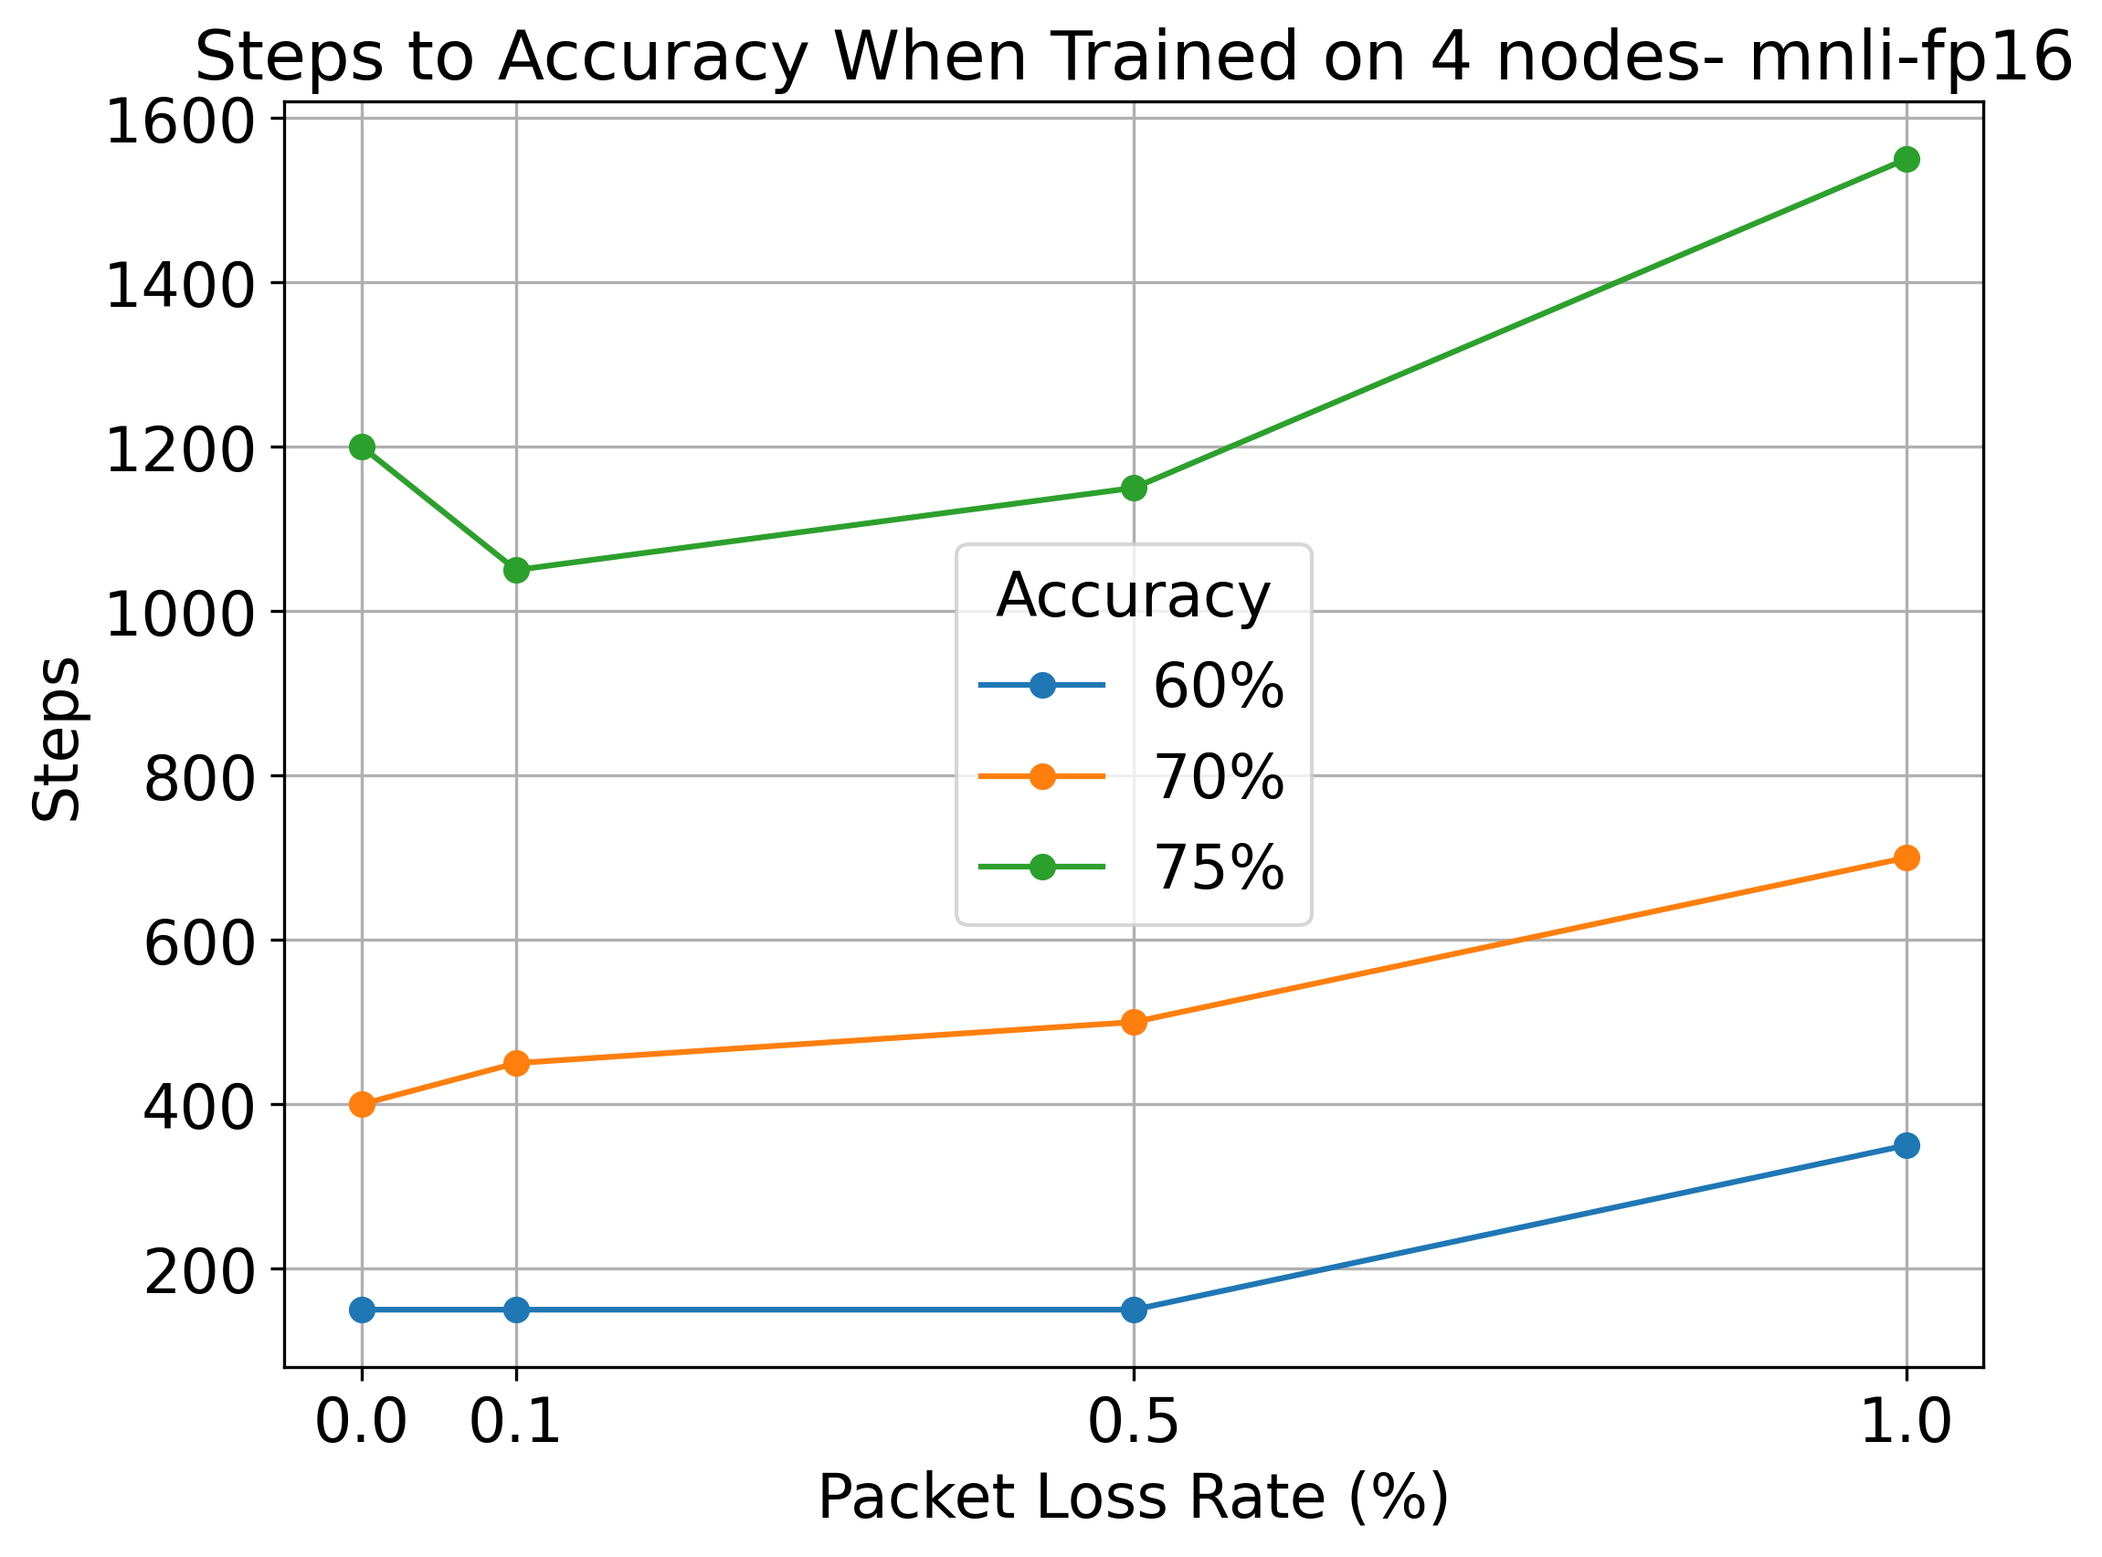
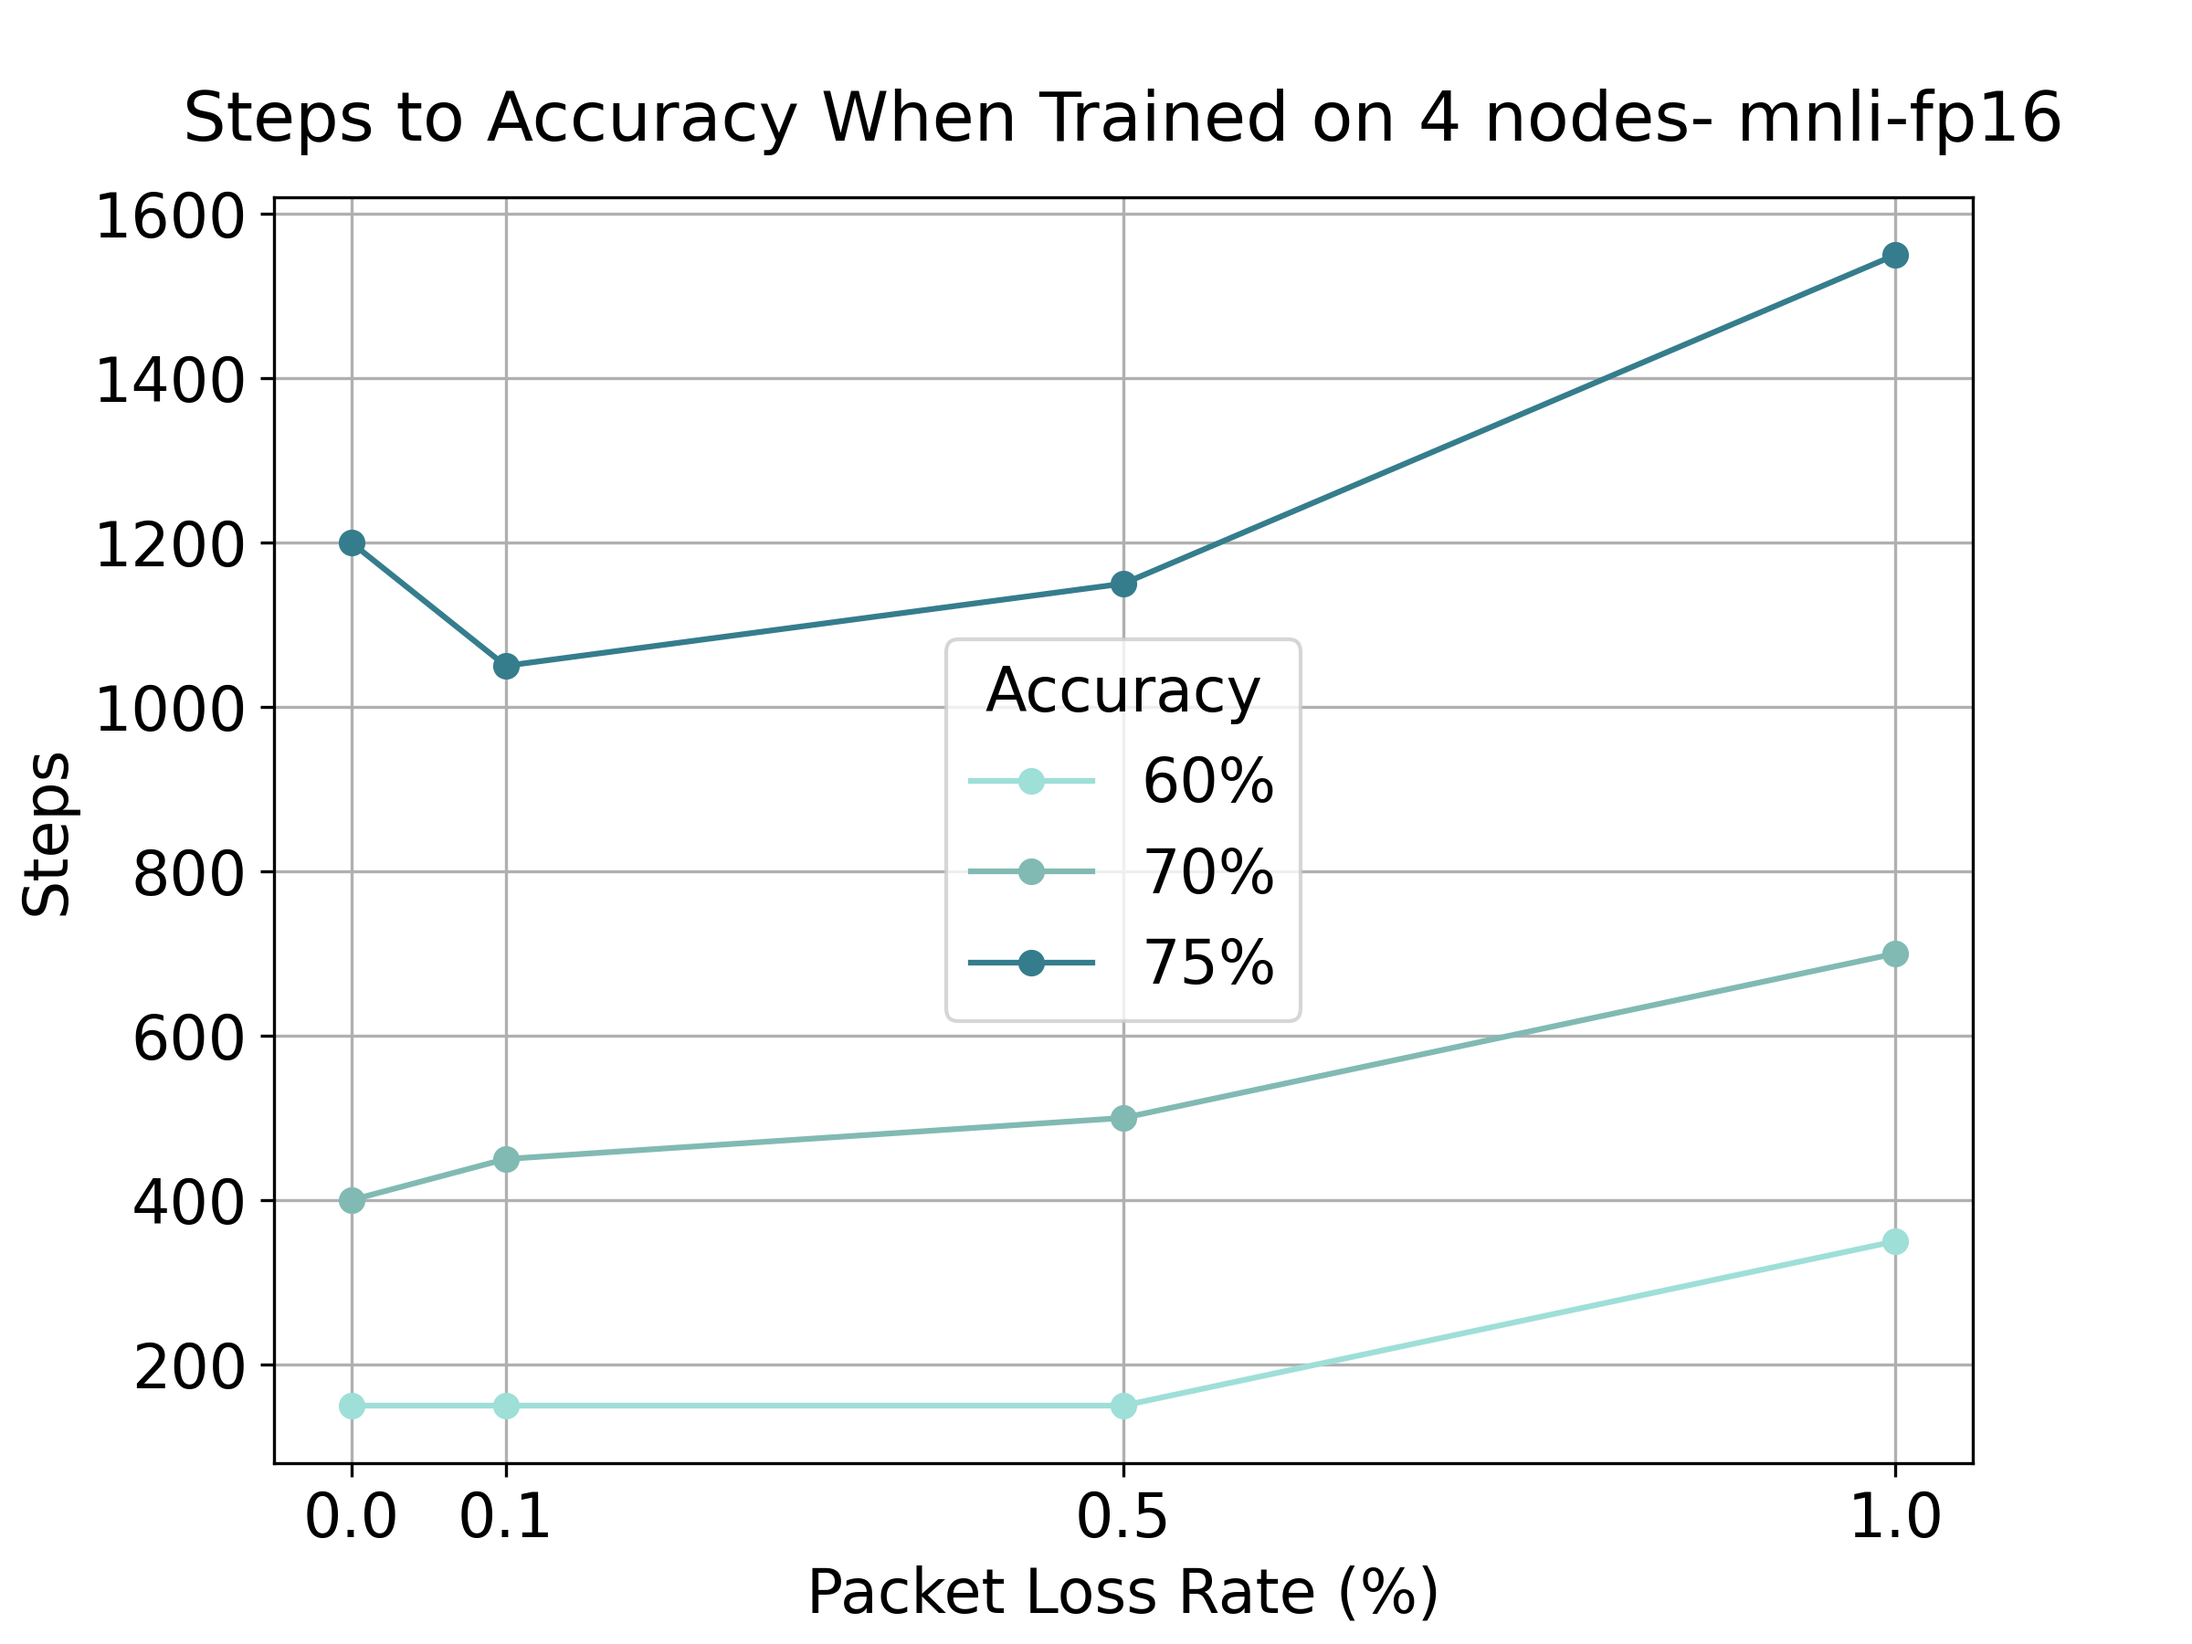
change some plotting stuff

diff --git a/plot_and_save_results.py b/plot_and_save_results.py
@@ -1,30 +1,34 @@
 import json
 import matplotlib.pyplot as plt
+from matplotlib import colormaps
 import os
 
+colors = ['#9edfd8','#81bab3','#357d8d','#072635', 'black']
+# colors = ['#1f77b4', '#ff7f0e', '#2ca02c', '#d62728', '#9467bd', '#8c564b', '#e377c2', '#7f7f7f', '#bcbd22', '#17becf']
+
 def plot_steps_vs_nodes(data, dataset_name, save_path, accuracy_threshold=0.75):
-    plt.rcParams.update({'font.size': 16})  # Set base font size
+    # plt.rcParams.update({'font.size': 16})  # Set base font size
     fig, ax = plt.subplots(figsize=(8, 6), dpi=300)
-    ax.set_title(f"Steps Required to Reach {accuracy_threshold*100}% Accuracy - {dataset_name}", fontsize=18)
+    ax.set_title(f"Steps Required to Reach {accuracy_threshold*100}% Accuracy - {dataset_name}", fontsize=18, pad=15)
     ax.set_xlabel("Node Count", fontsize=16)
     ax.set_ylabel("Steps to Accuracy", fontsize=16)
     x = [2, 4, 6]
     ax.set_xticks(x)
     ax.set_xticklabels(["2", "4", "6"], fontsize=16)
     ax.tick_params(axis='both', which='major', labelsize=16)
-    ax.plot(x, data["0"], label="0%", marker='o', color='blue')
-    ax.plot(x, data["0.001"], label="0.1%", marker='o', color='orange')
-    ax.plot(x, data["0.005"], label="0.5%", marker='o', color='green')
-    ax.plot(x, data["0.01"], label="1.0%", marker='o', color='red')
+    ax.plot(x, data["0"], label="0%", marker='o', color=colors[0])
+    ax.plot(x, data["0.001"], label="0.1%", marker='o', color=colors[1])
+    ax.plot(x, data["0.005"], label="0.5%", marker='o', color=colors[2])
+    ax.plot(x, data["0.01"], label="1.0%", marker='o', color=colors[3])
     ax.legend(title="Packet Loss Rate", title_fontsize=16, fontsize=16)
     ax.grid()
-    plt.savefig(save_path, bbox_inches='tight')
+    plt.savefig(save_path)
     plt.close()
 
 def plot_steps_vs_loss_rate(data, dataset_name, save_path):
-    plt.rcParams.update({'font.size': 16})  # Set base font size
+    # plt.rcParams.update({'font.size': 16})  # Set base font size
     fig, ax = plt.subplots(figsize=(8, 6), dpi=300)
-    ax.set_title(f"Steps to Accuracy When Trained on 4 nodes- {dataset_name}", fontsize=18)
+    ax.set_title(f"Steps to Accuracy When Trained on 4 nodes- {dataset_name}", fontsize=18, pad=15)
     ax.set_xlabel("Packet Loss Rate (%)", fontsize=16)
     ax.set_ylabel("Steps", fontsize=16)
     x = [0.0, 0.1, 0.5, 1.0]
@@ -34,14 +38,21 @@ def plot_steps_vs_loss_rate(data, dataset_name, save_path):
     accuracies = list(data.keys())
     for i in range(len(accuracies)):
         acc = accuracies[i]
-        ax.plot(x, data[acc], label=acc, marker='o')
+        ax.plot(x, data[acc], label=acc, marker='o', color=colors[i])
     ax.legend(title="Accuracy", title_fontsize=16, fontsize=16)
     ax.grid()
 
-    plt.savefig(save_path, bbox_inches='tight')
+    plt.savefig(save_path)
     plt.close()
 
 def main():
+
+    target_accuracy_map = {
+        'winogrande': 0.8,
+        'piqa': 0.7,
+        'hellaswag': 0.7,
+        'mnli': 0.75
+    }
     # Create plots directory if it doesn't exist
     os.makedirs("plots", exist_ok=True)
     
@@ -52,12 +63,16 @@ def main():
     with open("results/tta-loss_rate.json", "r") as f:
         tta_loss_rate = json.load(f)
     # Create plots for each dataset
+
     for dataset_name in tta_node_count.keys():
         # Create both types of plots for each dataset
+        pure_ds_name = dataset_name.split('-')[0]
+
         plot_steps_vs_nodes(
             tta_node_count[dataset_name],
             dataset_name,
-            f"plots/{dataset_name}_steps_vs_nodes.png"
+            f"plots/{dataset_name}_steps_vs_nodes.png",
+            accuracy_threshold=target_accuracy_map[pure_ds_name]
         )
         
     for dataset_name in tta_loss_rate.keys():
